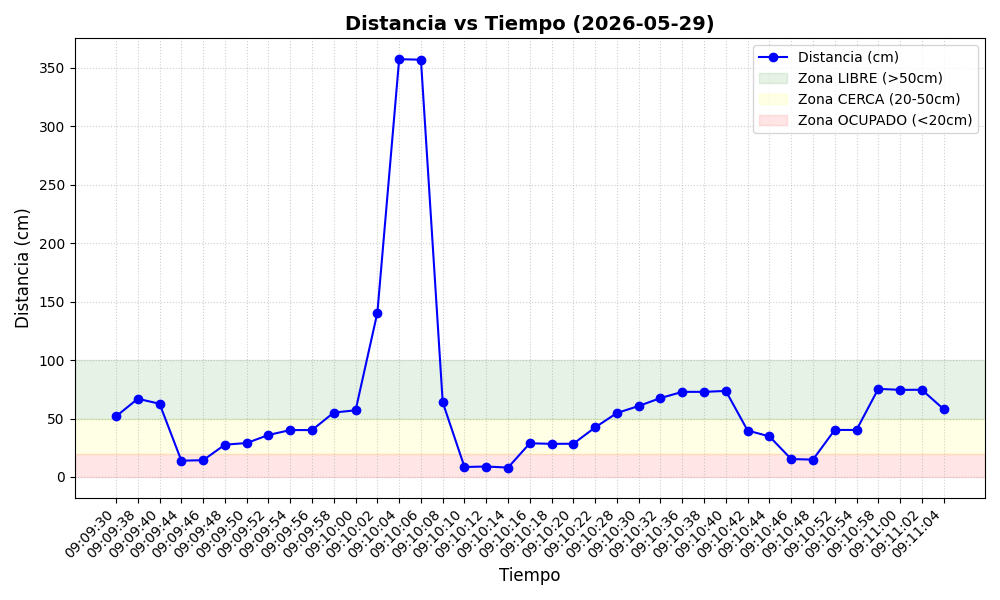
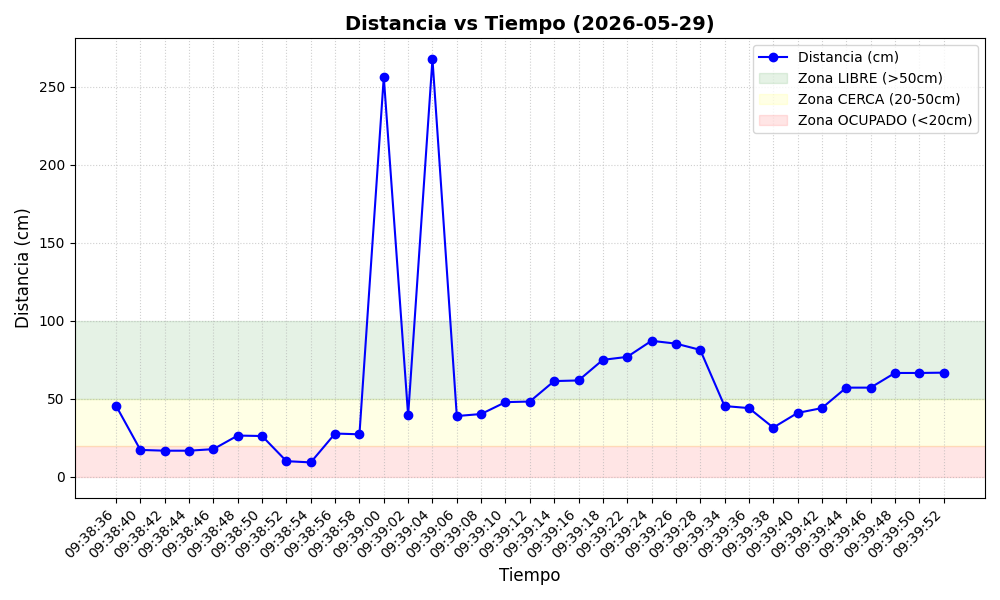
prueba

diff --git a/Evaluaciones/Evaluacion_Tercera_Competencia/códigos/modulos/datos.py b/Evaluaciones/Evaluacion_Tercera_Competencia/códigos/modulos/datos.py
@@ -18,12 +18,21 @@ def clasificar_estado(distancia):
     else:
         return "OCUPADO"
 
+def limpiar_archivo_al_inicio():
+    # Esta funcion borra el CSV viejo para empezar una sesion limpia
+    archivo = obtener_ruta_csv()
+    if os.path.exists(archivo):
+        os.remove(archivo)
+
 def guardar_en_csv(fecha_hora, distancia, estado):
     archivo_csv = obtener_ruta_csv()
-    escribir_encabezado = not os.path.exists(archivo_csv)
-
+    # El modo 'a' permite ir agregando lineas sin borrar las anteriores
     with open(archivo_csv, mode="a", newline="", encoding="utf-8") as f:
         escritor = csv.writer(f)
-        if escribir_encabezado:
+        
+        # Si el archivo esta vacio (posicion 0), escribimos encabezados
+        if f.tell() == 0:
             escritor.writerow(["fecha_hora", "distancia_cm", "estado"])
+            
         escritor.writerow([fecha_hora, distancia, estado])
+

diff --git a/Evaluaciones/Evaluacion_Tercera_Competencia/códigos/main.py b/Evaluaciones/Evaluacion_Tercera_Competencia/códigos/main.py
@@ -1,6 +1,6 @@
 import time
 from datetime import datetime
-from modulos import leer_distancia_i2c, clasificar_estado, guardar_en_csv, generar_grafica
+from modulos import leer_distancia_i2c, clasificar_estado, guardar_en_csv, generar_grafica, limpiar_archivo_al_inicio
 
 INTERVALO_MUESTREO = 2.0 
 MUESTRAS_MINIMAS = 30     
@@ -9,6 +9,7 @@ lista_tiempos = []
 lista_distancias = []
 
 print("Iniciando comunicacion I2C con ESP32...")
+limpiar_archivo_al_inicio()
 contador_muestras = 0
 
 try:

diff --git a/Evaluaciones/Evaluacion_Tercera_Competencia/códigos/modulos/__init__.py b/Evaluaciones/Evaluacion_Tercera_Competencia/códigos/modulos/__init__.py
@@ -1,3 +1,3 @@
 from .i2c_com import leer_distancia_i2c
-from .datos import clasificar_estado, guardar_en_csv
+from .datos import clasificar_estado, guardar_en_csv, limpiar_archivo_al_inicio
 from .graficos import generar_grafica